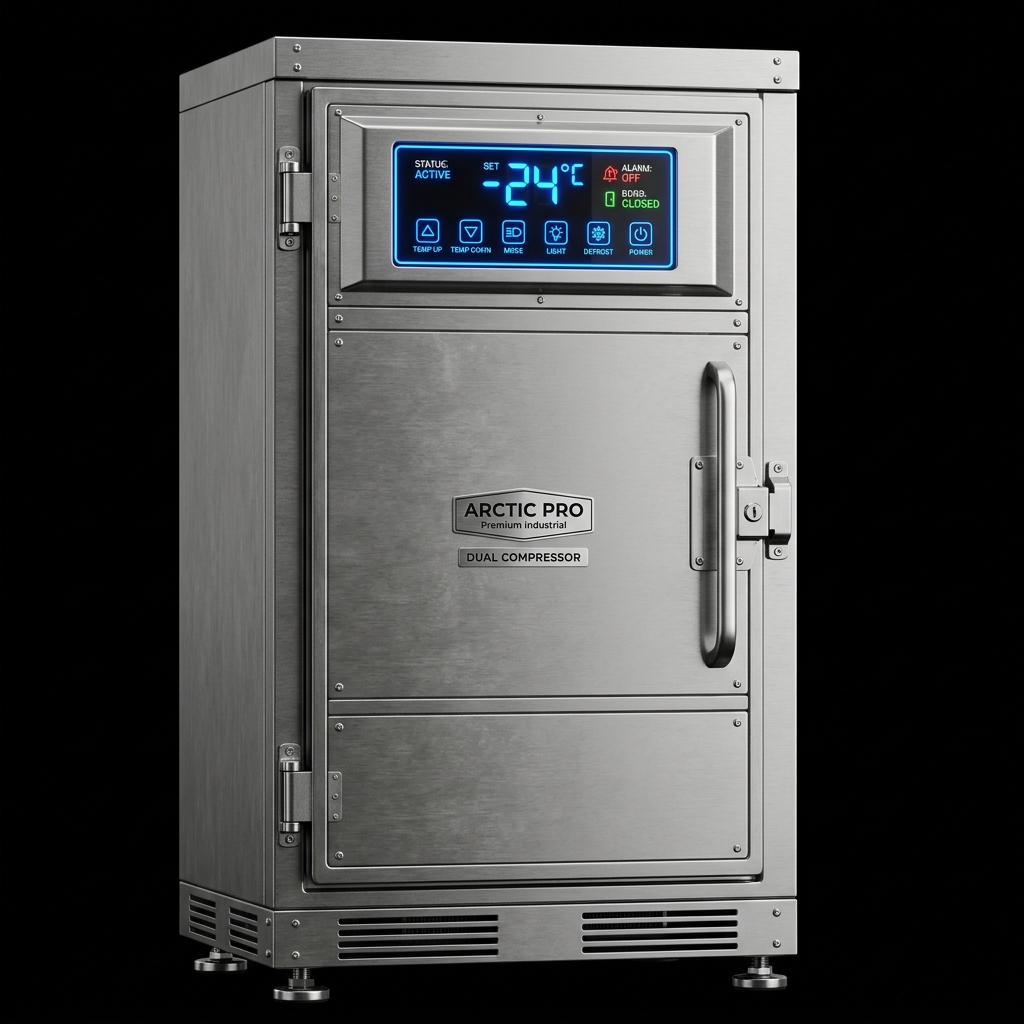
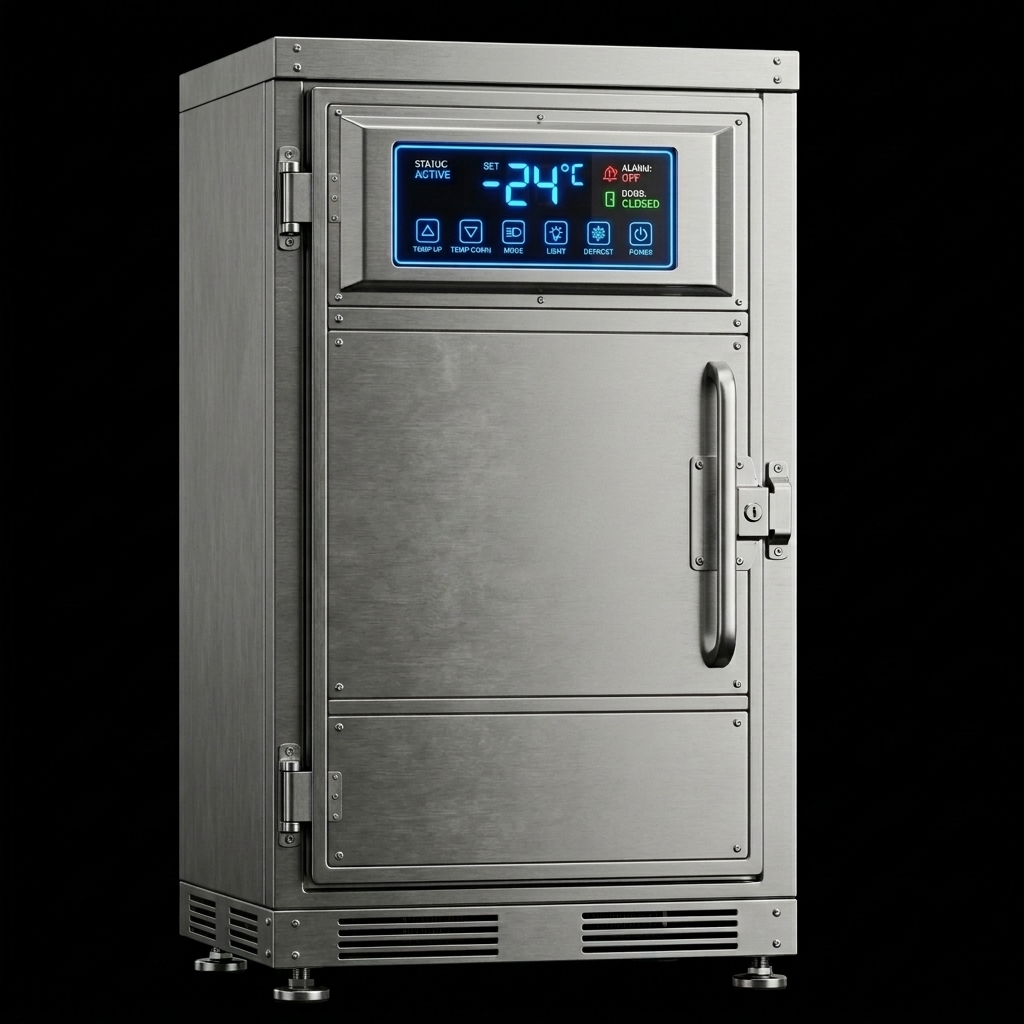
feat: add imagery for freezer and solar panel back/side views and simplify CSS styling

diff --git a/index.html b/index.html
@@ -138,7 +138,7 @@
         .freezer-back {
             width: 140px;
             height: 200px;
-            background: repeating-linear-gradient(0deg, #111, #111 6px, #252525 6px, #252525 8px);
+            background-color: #1a1a1a;
             border: 1px solid rgba(255, 255, 255, 0.1);
             transform: rotateY(180deg) translateZ(60px);
         }
@@ -146,7 +146,7 @@
             width: 120px;
             height: 200px;
             left: 10px;
-            background: linear-gradient(90deg, #151515, #252525);
+            background-color: #1a1a1a;
             border: 1px solid rgba(255, 255, 255, 0.05);
             transform: rotateY(-90deg) translateZ(70px);
         }
@@ -154,7 +154,7 @@
             width: 120px;
             height: 200px;
             left: 10px;
-            background: linear-gradient(90deg, #252525, #151515);
+            background-color: #1a1a1a;
             border: 1px solid rgba(255, 255, 255, 0.05);
             transform: rotateY(90deg) translateZ(70px);
         }
@@ -200,22 +200,9 @@
         .solar-back {
             width: 180px;
             height: 180px;
-            background: #1a1a1a;
+            background-color: #121212;
             border: 1px solid rgba(255, 255, 255, 0.1);
             transform: rotateY(180deg) translateZ(8px);
-        }
-        .solar-back::after {
-            content: '';
-            position: absolute;
-            top: 50%;
-            left: 50%;
-            transform: translate(-50%, -50%);
-            width: 40px;
-            height: 40px;
-            background: #0a0a0a;
-            border: 1px solid #333;
-            border-radius: 4px;
-            box-shadow: inset 0 0 8px rgba(0,0,0,0.8);
         }
         .solar-left {
             width: 16px;
@@ -389,9 +376,15 @@
                             <div class="freezer-face freezer-front">
                                 <img src="assets/congelador.png" alt="Serie Frío Extremo" class="w-full h-full object-contain mix-blend-screen">
                             </div>
-                            <div class="freezer-face freezer-back"></div>
-                            <div class="freezer-face freezer-left"></div>
-                            <div class="freezer-face freezer-right"></div>
+                            <div class="freezer-face freezer-back">
+                                <img src="assets/congelador_atras.png" alt="Atras" class="w-full h-full object-cover mix-blend-screen">
+                            </div>
+                            <div class="freezer-face freezer-left">
+                                <img src="assets/congelador_lateral.png" alt="Lateral" class="w-full h-full object-cover mix-blend-screen">
+                            </div>
+                            <div class="freezer-face freezer-right">
+                                <img src="assets/congelador_lateral.png" alt="Lateral" class="w-full h-full object-cover mix-blend-screen">
+                            </div>
                             <div class="freezer-face freezer-top"></div>
                             <div class="freezer-face freezer-bottom"></div>
                         </div>
@@ -419,7 +412,9 @@
                             <div class="solar-face solar-front">
                                 <img src="assets/panel_solar.png" alt="Energía Inteligente" class="w-full h-full object-contain mix-blend-screen">
                             </div>
-                            <div class="solar-face solar-back"></div>
+                            <div class="solar-face solar-back">
+                                <img src="assets/panel_solar_atras.png" alt="Atras" class="w-full h-full object-cover mix-blend-screen">
+                            </div>
                             <div class="solar-face solar-left"></div>
                             <div class="solar-face solar-right"></div>
                             <div class="solar-face solar-top"></div>